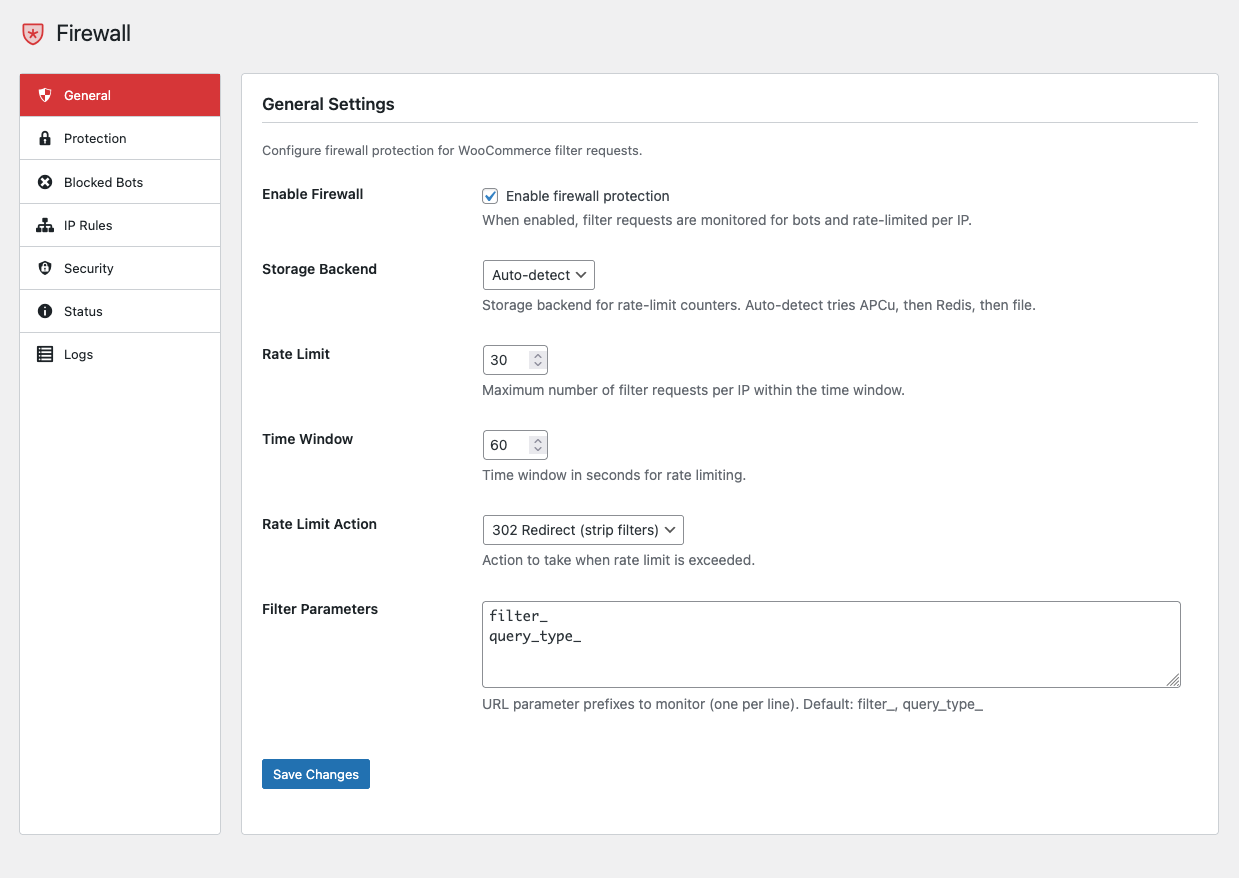
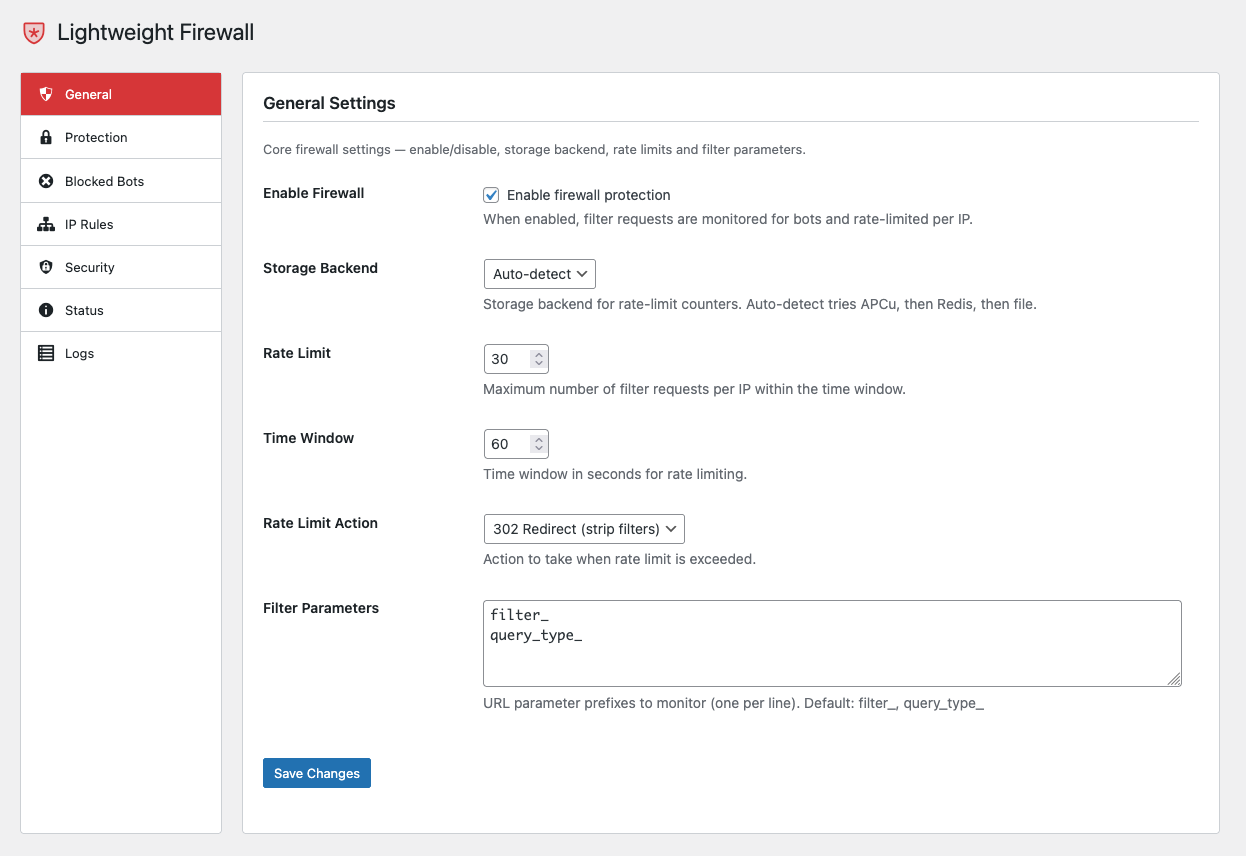
v1.1.1 — update descriptions, page title, screenshot

diff --git a/lw-firewall.php b/lw-firewall.php
@@ -3,7 +3,7 @@
  * Plugin Name: LW Firewall
  * Plugin URI:  https://github.com/lwplugins/lw-firewall
  * Description: Lightweight firewall — rate-limits endpoints, blocks bots, bans repeat offenders, and adds security headers.
- * Version:     1.1.0
+ * Version:     1.1.1
  * Author:      LW Plugins
  * Author URI:  https://lwplugins.com
  * License:     GPL-2.0-or-later
@@ -21,7 +21,7 @@ if ( ! defined( 'ABSPATH' ) ) {
 	exit;
 }
 
-define( 'LW_FIREWALL_VERSION', '1.1.0' );
+define( 'LW_FIREWALL_VERSION', '1.1.1' );
 define( 'LW_FIREWALL_FILE', __FILE__ );
 define( 'LW_FIREWALL_PATH', plugin_dir_path( __FILE__ ) );
 define( 'LW_FIREWALL_URL', plugin_dir_url( __FILE__ ) );

diff --git a/includes/Admin/SettingsPage.php b/includes/Admin/SettingsPage.php
@@ -118,7 +118,7 @@ final class SettingsPage {
 		<div class="wrap">
 			<h1>
 				<img src="<?php echo esc_url( LW_FIREWALL_URL . 'assets/img/shield-star.svg' ); ?>" alt="" class="lw-firewall-title-icon" />
-				<?php echo esc_html( get_admin_page_title() ); ?>
+				<?php esc_html_e( 'Lightweight Firewall', 'lw-firewall' ); ?>
 			</h1>
 
 			<?php if ( isset( $_GET['updated'] ) && '1' === $_GET['updated'] ) : // phpcs:ignore WordPress.Security.NonceVerification.Recommended ?>

diff --git a/worker/lw-firewall-worker.php b/worker/lw-firewall-worker.php
@@ -8,7 +8,7 @@
  * DO NOT EDIT THIS FILE DIRECTLY — it will be overwritten on plugin activation.
  *
  * @package LightweightPlugins\Firewall
- * @version 1.1.0
+ * @version 1.1.1
  */
 
 declare(strict_types=1);
@@ -17,7 +17,7 @@ if ( ! defined( 'ABSPATH' ) ) {
 	exit;
 }
 
-define( 'LW_FIREWALL_WORKER_VERSION', '1.1.0' );
+define( 'LW_FIREWALL_WORKER_VERSION', '1.1.1' );
 
 ( static function (): void {
 	$plugin_path = WP_PLUGIN_DIR . '/lw-firewall/';
